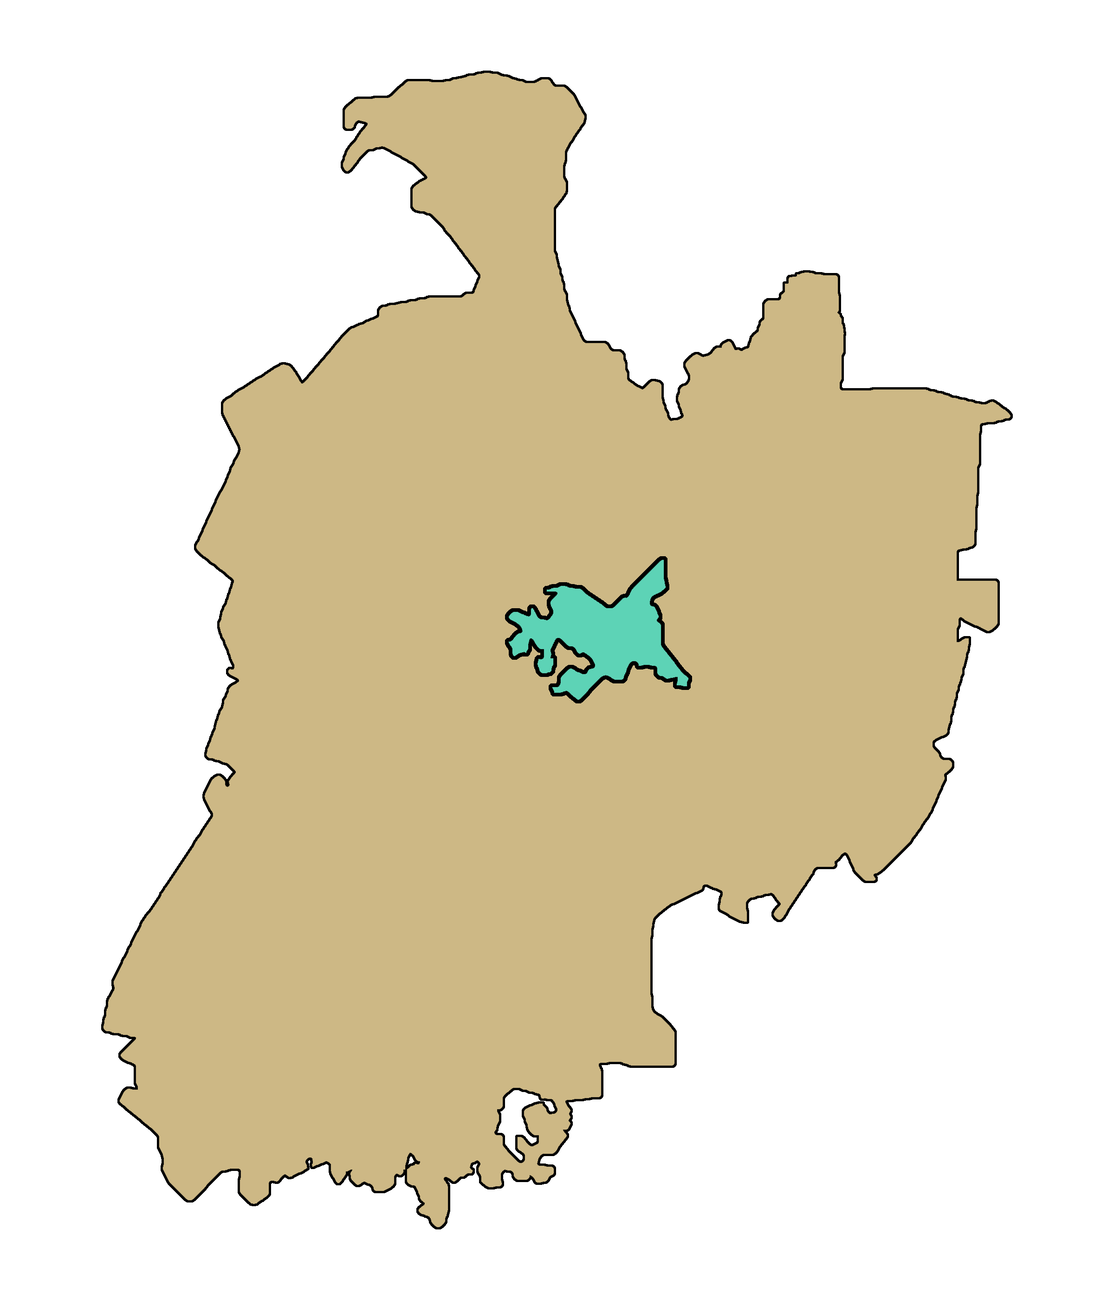
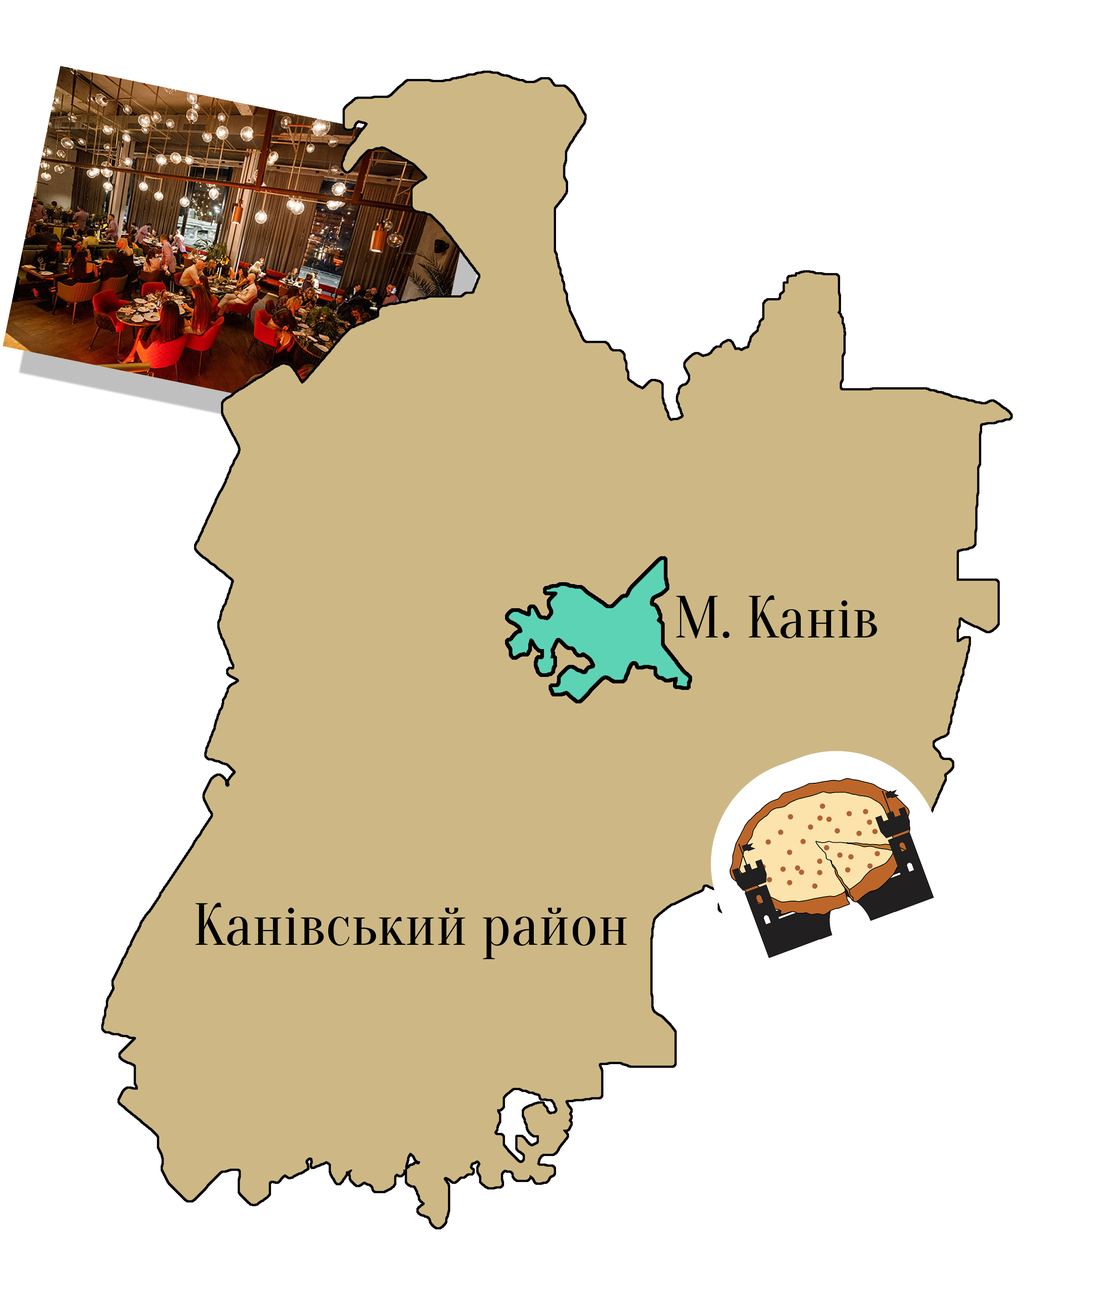
Main page is improved, work on the menu page has begun

diff --git a/res_main.html b/res_main.html
@@ -12,24 +12,26 @@
             <div class="menu">
                 <img src="static/img/site_logo.png" style="height: 100%; aspect-ratio: 1/1; border-radius: 0 20px 20px 0; position: absolute" />
                 <div style="background: linear-gradient(to right, rgb(255, 255, 255), rgb(255, 255, 255, 0)); margin-left: 90px; height: 100%; width: 3%"></div>
-                <button class="header_transition_button"><h1 class="header_button_text">< Курси</h1></button>
+                <a class="header_transition_button"><h1 class="header_button_text">< Курси</h1></a>
 
-                <button class="header_button chosen"><h1 class="header_button_text">Головна</h1></button>
-                <button class="header_button"><h1 class="header_button_text">Меню</h1></button>
-                <button class="header_button"><h1 class="header_button_text">Про нас</h1></button>
-                <button class="header_button"><h1 class="header_button_text">Відгуки</h1></button>
-                <button class="header_button"><h1 class="header_button_text">Контакти</h1></button>
+                <a class="header_button chosen"><h1 class="header_button_text">Головна</h1></a>
+                <a class="header_button" href="res_menu.html"><h1 class="header_button_text">Меню</h1></a>
+                <a class="header_button" href="res_about.html"><h1 class="header_button_text">Про нас</h1></a>
+                <a class="header_button" href="res_reviews.html"><h1 class="header_button_text">Відгуки</h1></a>
+                <a class="header_button" href="res_contacts.html"><h1 class="header_button_text">Контакти</h1></a>
 
                 <button class="header_round_button" style="border-radius: 30px 0 0 30px; margin-left: 30px"><img src="static/img/settings.png" style="height: 65%; aspect-ratio: 1/1" /></button>
-                <button class="header_round_button" style="margin: 0 5px 0 5px"><img src="static/img/cart.png" style="height: 65%; aspect-ratio: 1/1" /></button>
+                <a class="header_round_button" href="res_cart.html" style="margin: 0 5px 0 5px"><img src="static/img/cart.png" style="height: 65%; aspect-ratio: 1/1" /></a>
                 <button class="header_round_button" style="border-radius: 0 30px 30px 0"><img src="static/img/user.png" style="height: 65%; aspect-ratio: 1/1" /></button>
             </div>
         </header>
 
+
+        
         <main>
             <br><br><br>
             <img src="static/img/ukraine.png" style="width: 55%; transform: rotate(10deg); margin-left: 50%" />
-            <div class="text_background" style="width: 55%; height: 130%; position: absolute; margin-top: -53%">
+            <div class="text_background" style="width: 55%; height: 120%; position: absolute; margin-top: -53%">
                 <br><br><br><br><br><br><br><br><br><br><br><br><br><br><br>
                 <h1 class="middle_text" style="margin-left: 5%">Наша мережа закладів - бастіон хачапурі в Україні!</h1>
                 <h1 class="small_text" style="margin: -3% 0 0 5%">(та й усієї грузинської кухні)</h1>
@@ -40,8 +42,8 @@
             </div>
             <img src="static/img/site_logo.png" style="position: absolute; width: 17%; margin: -33% 0 0 70%; border-radius: 300px" />
             <img src="static/img/wood1.png" style="width: 200px; height: 2000px; margin: -43% 0 0 45%; object-fit: cover; object-position: center; transform: rotate(90deg); z-index: 1000" />
-            <img src="static/img/planet_georgia1.png" style="width: 50%; margin: -90% 0 0 55%; z-index: -1" />
-            <div class="text_background" style="width: 55%; height: 120%; position: absolute; margin-top: -53%; z-index: -1">
+            <div style="width: 100%; height: 140%; overflow: hidden; margin: -48% 0 0 54%; z-index: -1; position: absolute; user-select: none"><img src="static/img/planet_georgia1.png" style="width: 75%; margin-top: -17%" /></div>
+            <div class="text_background" style="width: 55%; height: 140%; position: absolute; margin-top: -53%; z-index: -1">
                 <br><br><br><br><br><br>
                 <h1 class="middle_text" style="margin-left: 5%">Наша мережа закладів - бастіон хачапурі в Україні!</h1>
                 <br><br><br><br><br><br><br><br><br><br><br><br>
@@ -53,14 +55,15 @@
                     <button class="button" style="height: 80px">На Google Maps</button>
                 </div>
             </div>
-            <img src="static/img/wood1.png" style="width: 200px; height: 2000px; margin: -43% 0 0 45%; object-fit: cover; object-position: center; transform: rotate(90deg); z-index: 1000" />
+            <img src="static/img/wood1.png" style="width: 200px; height: 2000px; margin: -35% 0 0 45%; object-fit: cover; object-position: center; transform: rotate(90deg); z-index: 1000" />
 
 
             <div class="text_background" style="width: 55%; height: 65%; position: absolute; margin-top: -53%; z-index: -1">
                 <br><br><br><br><br><br><br><br><br><br><br><br>
                 <h1 class="middle_text" style="margin-left: 5%">Походження найвідоміших страв</h1>
                 <br><br><br><br><br><br><br><br>
-                <h1 class="small_text" style="margin: -3% 0 0 5%">Фаворити наших відвідувачів: Хачапурі по-мергельськи, по-аджарськи, хінкалі, сациві, лобіо, чурчхела, када та багато іншого!</h1>
+                <h1 class="small_text" style="margin: -3% 0 0 5%">Фаворити наших відвідувачів:
+Хачапурі по-мегрельськи, по-аджарськи, хінкалі, сациві, лобіо, чурчхела, када та багато іншого!</h1>
             </div>
             <div class="text_background" style="width: 55%; height: 60%; position: absolute; margin-top: 5%; z-index: 0">
                 <br><br><br><br>
@@ -76,21 +79,23 @@
             <img src="static/img/wood1.png" style="width: 200px; height: 2000px; margin: -43% 0 0 45%; object-fit: cover; object-position: center; transform: rotate(90deg); z-index: 1000" />
             <div class="text_background" style="width: 55%; height: 130%; position: absolute; margin-top: -50%; z-index: -1">
                 <br><br><br><br><br><br>
-                <h1 class="small_text" style="margin-left: 5%">
+                <h1 class="small_text" style="margin-left: 5%; width: 85%">
                     2015 року молодий підприємницький канівчанин Степан Шептицький вирішив заснувати мережу закладів, яка зможе завоювати всю Україну та не тільки. Дуже амбіціозні плани, прямо наполеонівські, чи не так? Воно й не давно бо на землі Кобзаря, у Каневі, завжди жили такі величні люди, які прагнули більшого.
-                    І ці плани він справді реалізував, зараз HachapuriBastion одна з найбільших мереж закладів харчування в Україні та Грузії! Хіба не це є успіхом?
+                    І ці плани він справді реалізував, зараз HachapuriBastion одна з найбільших мереж закладів харчування в Україні та Грузії!
+Хіба не це є успіхом?
                 </h1>
                 <div style="display: flex; align-items: center; margin-top: -40%">
-                    <img src="static/img/stepan_sheptytskyi.png" style="width: 35%; margin: 42% 0 0 3%" />
-                    <h1 class="big_text" style="margin-left: 5%; width: 10%">Степан Шептицький</h1>
+                    <img src="static/img/stepan_sheptytskyi.png" style="width: 35%; margin: 42% 0 0 5%" />
+                    <div style="display: flex; flex-direction: column; margin-left: 5%">
+                        <div style="display: flex; justify-content: center"><h1 class="big_text" style="margin-top: 100%">Степан</h1></div>
+                        <h1 class="big_text" style="margin-top: -10%">Шептицький</h1>
+                    </div>
                 </div>
             </div>
-            <br><br><br><br><br><br><br><br><br><br><br><br>
-            <img src="static/img/kaniv_area.png" style="width: 45%; margin: -75% 0 0 55%; z-index: 0; filter: drop-shadow(30px 50px 0px rgba(0, 0, 0, 0.28))" />
-            <h1 class="middle_text" style="position: absolute; margin: -29% 0 0 82.5%">М. Канів</h1>
-            <h1 class="middle_text" style="position: absolute; margin: -15% 0 0 61%">Канівський район</h1>
-            <img src="static/img/site_logo.png" style="position: absolute; width: 10%" />
+            <br><br><br><br><br><br><br><br><br><br><br><br><br><br>
+            <img src="static/img/kaniv_area.png" style="width: 54%; margin: -61% 0 0 50%; z-index: -2; position: absolute" />
         </main>
+
 
 
         <footer class="site_footer">
@@ -112,19 +117,19 @@
                     <h1 class="footer_text">Контакти:</h1>
                     <div style="display: flex">
                         <div style="display: flex; flex-direction: column">
-                            <img src="static/img/phone.png" style="height: 40px; aspect-ratio: 1/1; margin: 0 1% 0 1%" />
-                            <img src="static/img/telegram2.png" style="height: 40px; aspect-ratio: 1/1; margin: 0 1% 0 1%" />
-                            <img src="static/img/gmail.png" style="height: 40px; aspect-ratio: 1/1; margin: 0 1% 0 1%" />
+                            <img src="static/img/phone.png" style="height: 40px; aspect-ratio: 1/1; margin-left: 1%" />
+                            <img src="static/img/telegram2.png" style="height: 40px; aspect-ratio: 1/1; margin-left: 1%" />
+                            <img src="static/img/gmail.png" style="height: 40px; aspect-ratio: 1/1; margin-left: 1%" />
                         </div>
                         <div style="display: flex; flex-direction: column">
-                            <h1 class="footer_text" style="margin-top: 5%">Телефон:</h1>
-                            <h1 class="footer_text" style="margin-top: 5%">Telegram Bot:</h1>
-                            <h1 class="footer_text" style="margin-top: 5%">Email:</h1>
+                            <h1 class="footer_text" style="margin: 5% 0 0 10%">Телефон:</h1>
+                            <h1 class="footer_text" style="margin: 6% 0 0 10%">Telegram Bot:</h1>
+                            <h1 class="footer_text" style="margin: 7% 0 0 10%">Email:</h1>
                         </div>
                         <div style="display: flex; flex-direction: column">
                             <h1 class="footer_text" style="margin-top: 0%">+380664534576</h1>
-                            <h1 class="footer_text" style="margin-top: 5%">gdgdgdggdg.bot</h1>
-                            <h1 class="footer_text" style="margin-top: 2%">hachapuribastion@gmail.com</h1>
+                            <h1 class="footer_text" style="margin-top: 3%">gdgdgdggdg.bot</h1>
+                            <h1 class="footer_text" style="margin-top: 4%">hachapuribastion@gmail.com</h1>
                         </div>
                     </div>
                 </div>

diff --git a/res_menu.html b/res_menu.html
@@ -1,0 +1,133 @@
+<!DOCTYPE html>
+<html lang="uk">
+    <head>
+        <meta charset="utf-8"/>
+        <link rel="stylesheet" href="static/css/r_common_things.css" />
+        <link rel="stylesheet" href="static/css/r_menu.css" />
+        <link rel="shortcut icon" href="static/favicons/site_icon.ico" />
+        <title>HachapuriBastion - restoraunt</title>
+    </head>
+
+    <body>
+        <header class="site_header">
+            <div class="menu">
+                <img src="static/img/site_logo.png" style="height: 100%; aspect-ratio: 1/1; border-radius: 0 20px 20px 0; position: absolute" />
+                <div style="background: linear-gradient(to right, rgb(255, 255, 255), rgb(255, 255, 255, 0)); margin-left: 90px; height: 100%; width: 3%"></div>
+                <a class="header_transition_button"><h1 class="header_button_text">< Курси</h1></a>
+
+                <a class="header_button" href="res_main.html"><h1 class="header_button_text">Головна</h1></a>
+                <a class="header_button chosen"><h1 class="header_button_text">Меню</h1></a>
+                <a class="header_button" href="res_about.html"><h1 class="header_button_text">Про нас</h1></a>
+                <a class="header_button" href="res_reviews.html"><h1 class="header_button_text">Відгуки</h1></a>
+                <a class="header_button" href="res_contacts.html"><h1 class="header_button_text">Контакти</h1></a>
+
+                <button class="header_round_button" style="border-radius: 30px 0 0 30px; margin-left: 30px"><img src="static/img/settings.png" style="height: 65%; aspect-ratio: 1/1" /></button>
+                <a class="header_round_button" href="res_cart.html" style="margin: 0 5px 0 5px"><img src="static/img/cart.png" style="height: 65%; aspect-ratio: 1/1" /></a>
+                <button class="header_round_button" style="border-radius: 0 30px 30px 0"><img src="static/img/user.png" style="height: 65%; aspect-ratio: 1/1" /></button>
+            </div>
+        </header>
+
+
+
+        <main>
+            <br><br><br><br><br>
+            <div style="width: 100%; height: 30%; background-color: rgb(255, 255, 255, 0.3); display: flex; justify-content: center">
+                <button class="section_button">Закуски</button>
+                <button class="section_button">Перші</button>
+                <button class="section_button">Другі</button>
+                <button class="section_button">Напої</button>
+                <button class="section_button">Десерти</button>
+                <button class="section_button">Соуси та спеції</button>
+            </div>
+            <br><br><br><br>
+            <div style="overflow: hidden; width: 100%; height: 80%; position: absolute; z-index: -1"><img src="static/img/wood1.png" style="transform: rotate(90deg); width: 100%; margin-top: 0%"/></div>
+            <div style="height: 80%; width: 100%; margin: 1% 0 0 1%; display: flex">
+                <img src="static/img/m_hachapuri_megrel.png" style="width: 35%; margin-top: 0%; padding: 1% 0 1% 0" />
+                <div style="background-color: rgb(255, 255, 255, 0.5); width: 80%; margin-left: 1%">
+                    <h1 class="big_text" style="margin-left: 2%">Хачапурі по-мегрельськи</h1>
+                    <h1 class="middle_text" style="width: 50%; margin-left: 2%">
+                        Вишуканий сирний корж із бринзою та сулугуні!<br><br><br>
+                        Мале (10 см - 100 грн) /<br>
+                        Середнє (20 см - 150 грн) /<br>
+                        Велике (30 см - 200 грн)
+                    </h1>
+                    <div style="position: absolute; display: flex; flex-direction: column; margin: -30% 0 0 45%">
+                        <div style="background-color: rgb(255, 255, 255, 0.3); border-radius: 70px; padding: 1% 1% 1% 1%; width: 50%; aspect-ratio: 1/1">
+                            <img src="static/img/like.png" style="width: 100%" />
+                        </div>
+                        <h1 class="middle_text">Про цю страву добре відгукуються!</h1>
+                    </div>
+                    <div style="display: flex; justify-content: center">
+                        <button class="button" style="margin-right: 25%">Відгуки</button>
+                        <button class="button" style="margin-left: 25%">Додати</button>
+                    </div>
+                </div>
+            </div>
+
+            <br><br><br><br><br><br><br><br><br><br><br><br><br><br><br><br><br><br><br><br><br><br><br><br><br><br><br><br><br><br><br><br><br><br><br><br><br><br><br><br><br><br><br><br><br><br><br><br><br><br><br><br><br><br>
+        </main>
+
+
+
+        <footer class="site_footer">
+                <div style="margin: -1% 0 0 6%; width: 94%; align-items: center; display: flex">
+                    <img src="static/img/site_logo.png" style="height: 80px; aspect-ratio: 1/1; border-radius: 20px; margin-right: 2%" />
+                    <img src="static/img/facebook.png" class="footer_icon" />
+                    <img src="static/img/instagram.png" class="footer_icon" />
+                    <img src="static/img/youtube.png" class="footer_icon" />
+                    <img src="static/img/telegram1.png" class="footer_icon" />
+                </div>
+                <div style="position: absolute; display: flex; justify-content: center; width: 100%; margin-top: -5%">
+                    <div style="display: flex; flex-direction: column">
+                        <h1 class="footer_text" style="font-size: 40px">Смакота, чи не так?</h1>
+                        <div style="display: flex; justify-content: center"><h1 class="footer_text" style="font-size: 40px; margin-top: -5%">Замовляйте!</h1></div>
+                        <button class="button">Меню</button>
+                    </div>
+                </div>
+                <div style="position: absolute; display: flex; flex-direction: column; right: 10%; margin-top: -3%">
+                    <h1 class="footer_text">Контакти:</h1>
+                    <div style="display: flex">
+                        <div style="display: flex; flex-direction: column">
+                            <img src="static/img/phone.png" style="height: 40px; aspect-ratio: 1/1; margin-left: 1%" />
+                            <img src="static/img/telegram2.png" style="height: 40px; aspect-ratio: 1/1; margin-left: 1%" />
+                            <img src="static/img/gmail.png" style="height: 40px; aspect-ratio: 1/1; margin-left: 1%" />
+                        </div>
+                        <div style="display: flex; flex-direction: column">
+                            <h1 class="footer_text" style="margin: 5% 0 0 10%">Телефон:</h1>
+                            <h1 class="footer_text" style="margin: 6% 0 0 10%">Telegram Bot:</h1>
+                            <h1 class="footer_text" style="margin: 7% 0 0 10%">Email:</h1>
+                        </div>
+                        <div style="display: flex; flex-direction: column">
+                            <h1 class="footer_text" style="margin-top: 0%">+380664534576</h1>
+                            <h1 class="footer_text" style="margin-top: 3%">gdgdgdggdg.bot</h1>
+                            <h1 class="footer_text" style="margin-top: 4%">hachapuribastion@gmail.com</h1>
+                        </div>
+                    </div>
+                </div>
+
+                <h1 class="footer_text" style="margin: 2% 0 0 6%;">LLC, “HachapuriBastion”, EDGG: 455291488</h1>
+                <h1 class="footer_text" style="margin-left: 6%;">© 2013-2026 HachapuriBastion. Усі права захищені</h1><br><br>
+
+                <div style="display: flex; justify-content: center; width: 100%"><div style="background: white; width: 1720px; height: 1px"></div></div><br><br>
+
+                <div style="display: flex; justify-content: center; margin-bottom: 3%">
+                    <div style="display: flex; justify-content: center; flex-direction: column; margin: 0 4% 0 4%">
+                        <a href="" class="footer_button">Умови надання послуг</a><br>
+                        <div style="display: flex; justify-content: center"><a href="" class="footer_button">Умови повернення</a></div>
+                    </div>
+                    <div style="display: flex; justify-content: center; flex-direction: column; margin: 0 4% 0 4%">
+                        <a href="" class="footer_button">Політика конфіденційності</a><br>
+                        <div style="display: flex; justify-content: center"><a href="" class="footer_button">Умови передзамовлення</a></div>
+                    </div>
+                    <div style="display: flex; justify-content: center; flex-direction: column; margin: 0 4% 0 4%">
+                        <a href="" class="footer_button">Постачальники послуг</a><br>
+                        <div style="display: flex; justify-content: center"><a href="" class="footer_button">Попередження</a></div>
+                    </div>
+                    <div style="display: flex; justify-content: center; flex-direction: column; margin: 0 4% 0 4%">
+                        <a href="" class="footer_button">Налаштувати Cookies</a><br>
+                        <div style="display: flex; justify-content: center"><a href="" class="footer_button">Договір оферти</a></div>
+                    </div>
+                </div>
+        </footer>
+    </body>
+</html>

diff --git a/static/css/r_common_things.css b/static/css/r_common_things.css
@@ -60,7 +60,10 @@ body {
     transition: all 0.3s ease
 }
 .button:hover {
-    background-color: rgb(227, 204, 148);
+    background-color: rgb(227, 204, 148)
+}
+.button:active {
+    background-color: rgb(245, 219, 157)
 }
 
 .footer_icon {
@@ -104,7 +107,10 @@ body {
     transition: opacity 0.3s;
 }
 .header_transition_button:hover::before {
-    opacity: 1;
+    opacity: 1
+}
+.header_transition_button:active::before {
+    background: linear-gradient(to right, rgb(245, 219, 157, 0), rgb(245, 219, 157), rgb(245, 219, 157), rgb(245, 219, 157), rgb(245, 219, 157));
 }
 
 .header_button {
@@ -136,14 +142,21 @@ body {
 .header_button.chosen::before {
     background: linear-gradient(to left, rgb(103, 235, 202, 0), rgb(103, 235, 202), rgb(103, 235, 202), rgb(103, 235, 202), rgb(103, 235, 202));
 }
+.header_button.chosen:active::before {
+    background: linear-gradient(to left, rgb(110, 250, 215, 0), rgb(110, 250, 215), rgb(110, 250, 215), rgb(110, 250, 215), rgb(110, 250, 215));
+}
 .header_button:hover::before {
     opacity: 1;
+}
+.header_button:active::before {
+    background: linear-gradient(to right, rgb(245, 219, 157, 0), rgb(245, 219, 157), rgb(245, 219, 157), rgb(245, 219, 157), rgb(245, 219, 157));
 }
 
 .header_button_text {
     position: absolute;
     font: 40px 'Oranienbaum', sans-serif;
-    color: rgb(255, 255, 255)
+    color: rgb(255, 255, 255);
+    user-select: none
 }
 
 .header_round_button {

diff --git a/static/css/r_menu.css b/static/css/r_menu.css
@@ -1,0 +1,16 @@
+.section_button {
+    background-color: rgb(255, 255, 255, 0.3);
+    border: 0;
+    font: 50px 'Oranienbaum', sans-serif;
+    padding: 1% 0 1% 0;
+    width: 16.4%;
+    user-select: none;
+    transition: all 0.2s ease;
+    margin: 0 0.2% 0 0.2%
+}
+.section_button:hover {
+    background-color: rgb(255, 255, 255, 0.5)
+}
+.section_button:active {
+    background-color: rgb(255, 255, 255, 0.7)
+}
